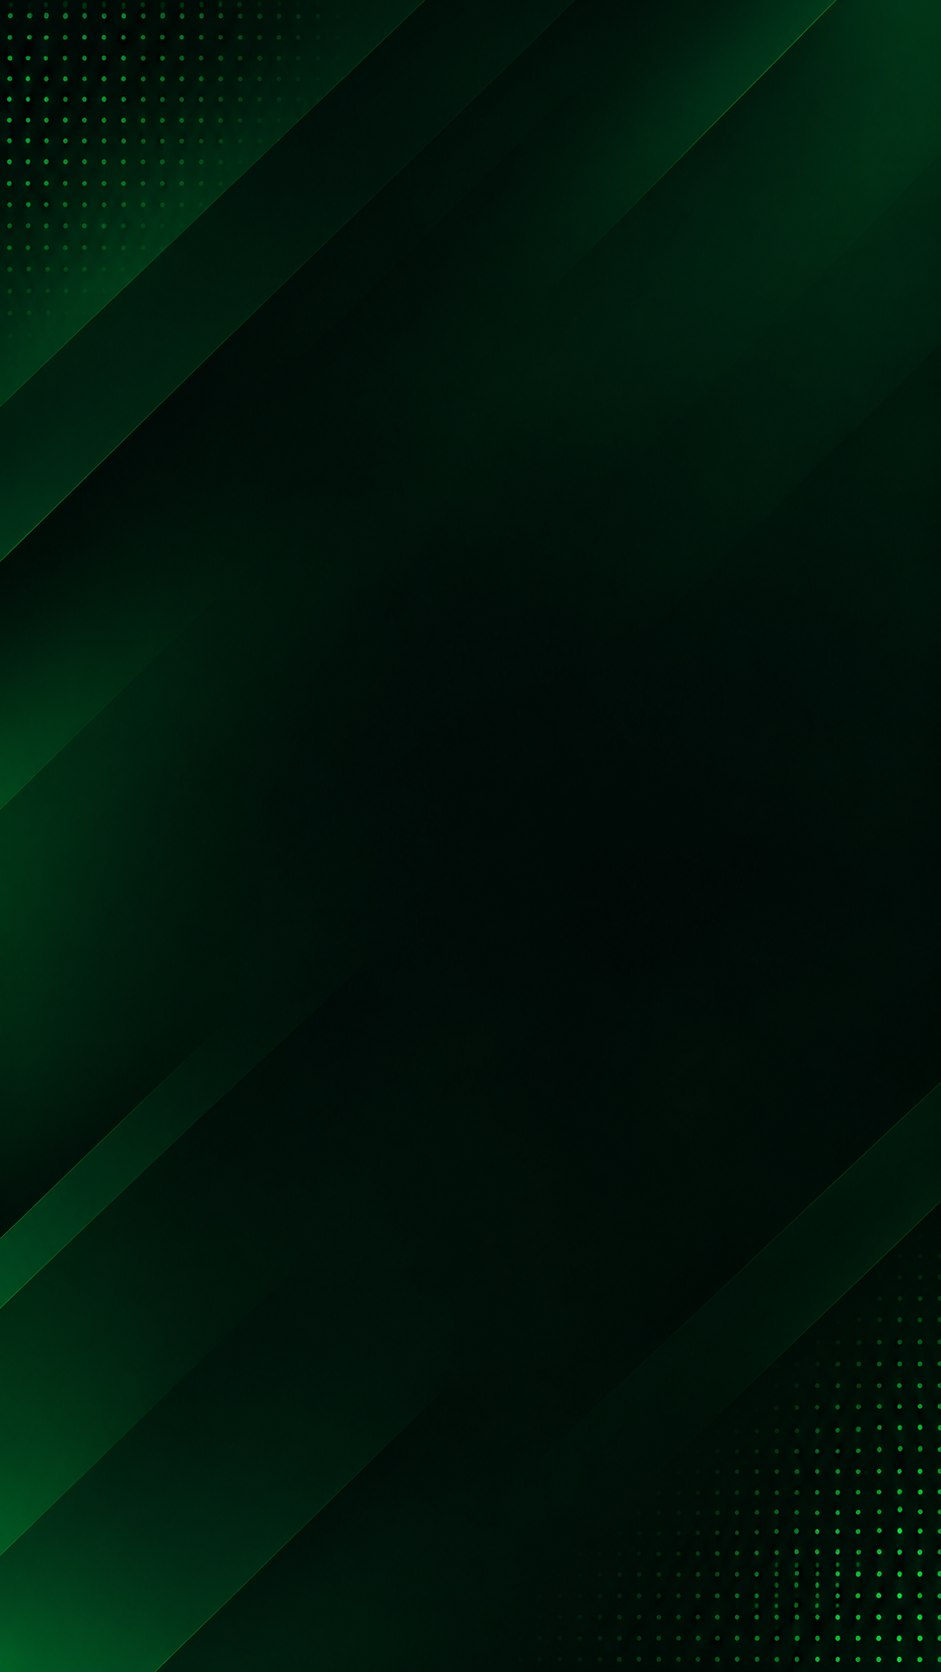
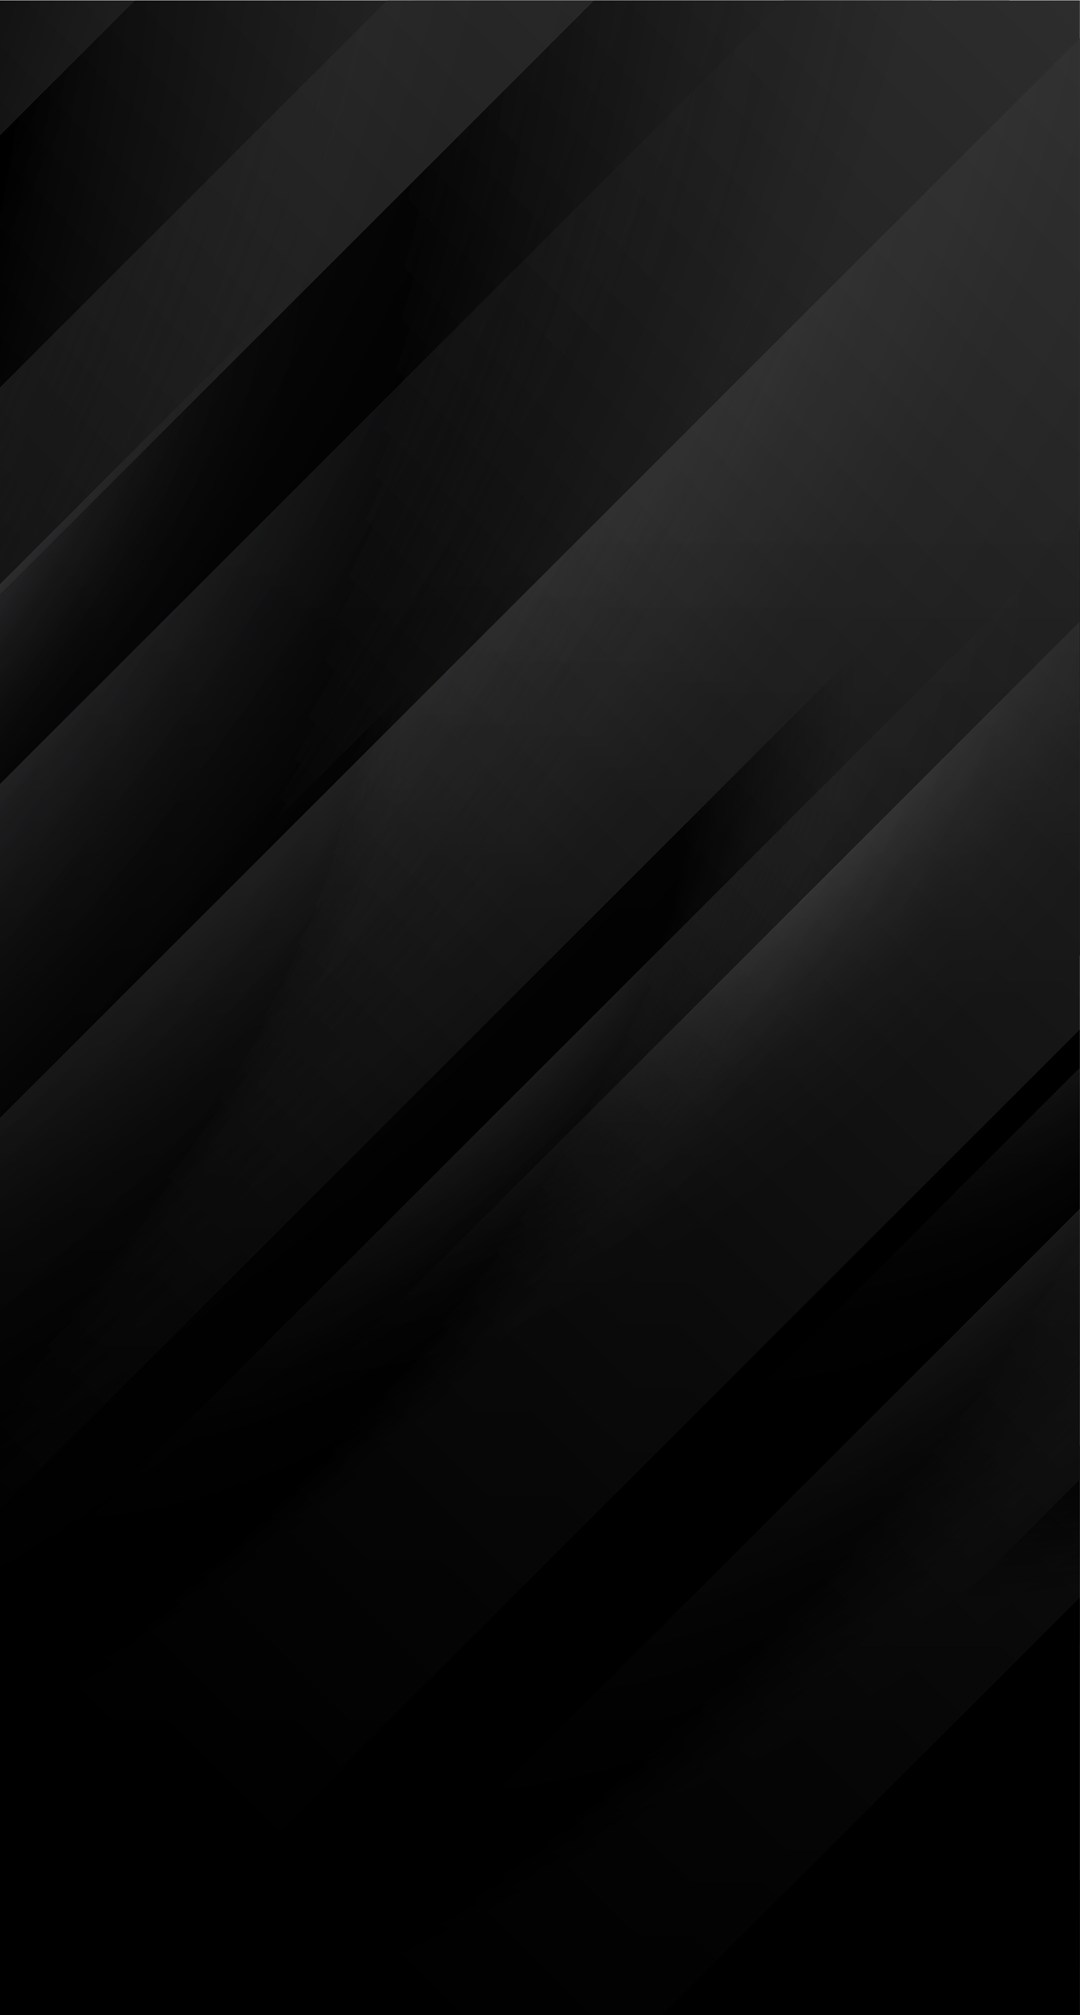
Fondo de la app: franjas diagonales negras/grafito (el login conserva el suyo)

diff --git a/lib/core/ui/prism_background.dart b/lib/core/ui/prism_background.dart
@@ -49,15 +49,33 @@ class PrismBackground extends StatelessWidget {
   /// primera pantalla no aparezca un instante sin el fondo.
   static Future<void> precache(BuildContext context) => Future.wait([
         precacheImage(const AssetImage(loginAsset), context),
+        precacheImage(const AssetImage(appAsset), context),
       ]);
 
   @override
   Widget build(BuildContext context) {
-    // 2026-11-08: la app va con fondo PLANO (color sólido, sin imagen): las
-    // tarjetas se leen como superficies y no compiten con una foto. Solo el
-    // login (la portada) conserva su imagen.
+    // 2026-11-08: fondo de la app = franjas diagonales negras/grafito
+    // (assets/images/app_bg.jpg), ya oscuro: sin capa encima. El login
+    // conserva su imagen y su capa (abajo).
     if (asset != loginAsset) {
-      return ColoredBox(color: color, child: RepaintBoundary(child: child));
+      return ColoredBox(
+        color: const Color(0xFF000000),
+        child: Stack(
+          fit: StackFit.expand,
+          children: [
+            const RepaintBoundary(
+              child: Image(
+                image: AssetImage(appAsset),
+                fit: BoxFit.cover,
+                alignment: Alignment.center,
+                gaplessPlayback: true,
+                filterQuality: FilterQuality.medium,
+              ),
+            ),
+            RepaintBoundary(child: child),
+          ],
+        ),
+      );
     }
     return ColoredBox(
       color: const Color(0xFF000000),
